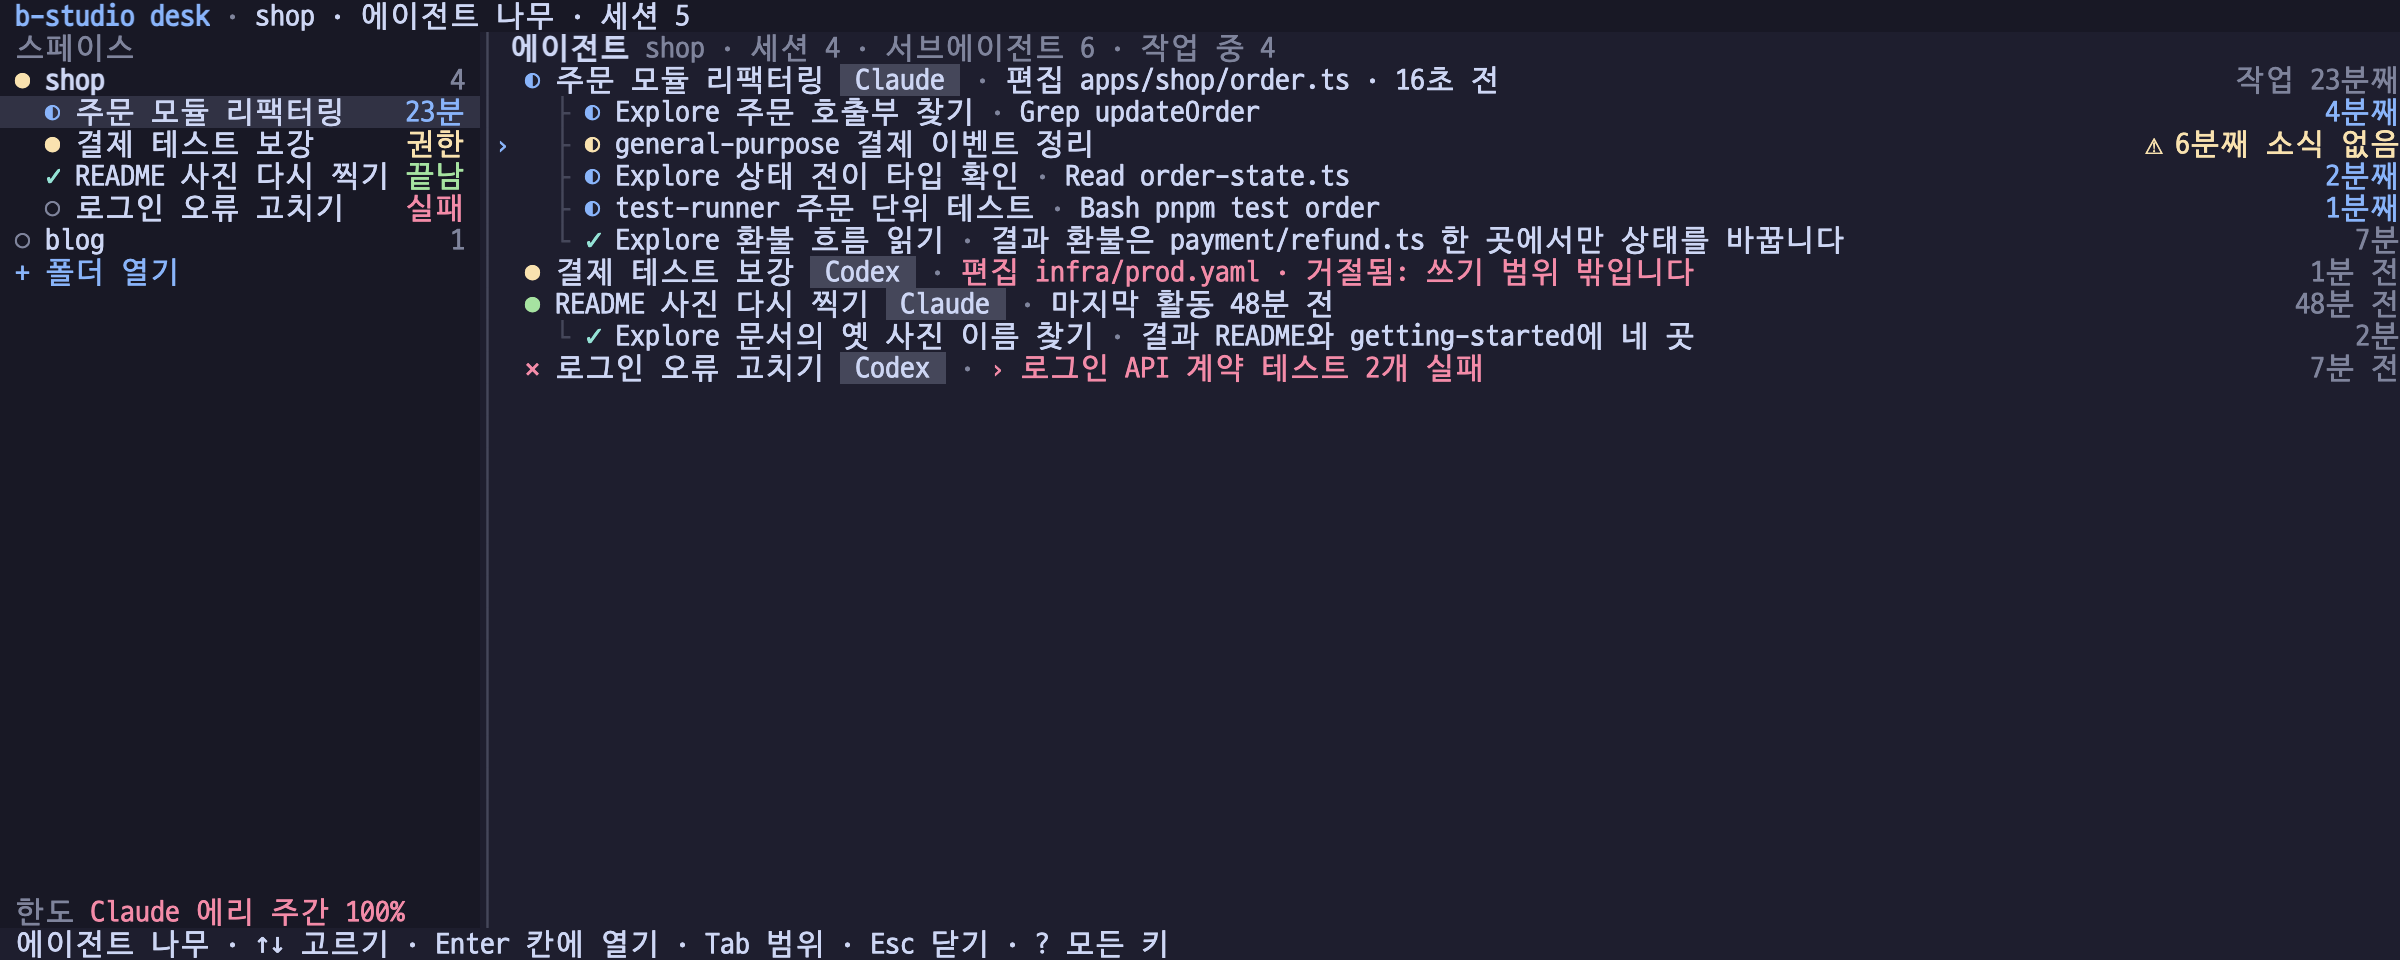
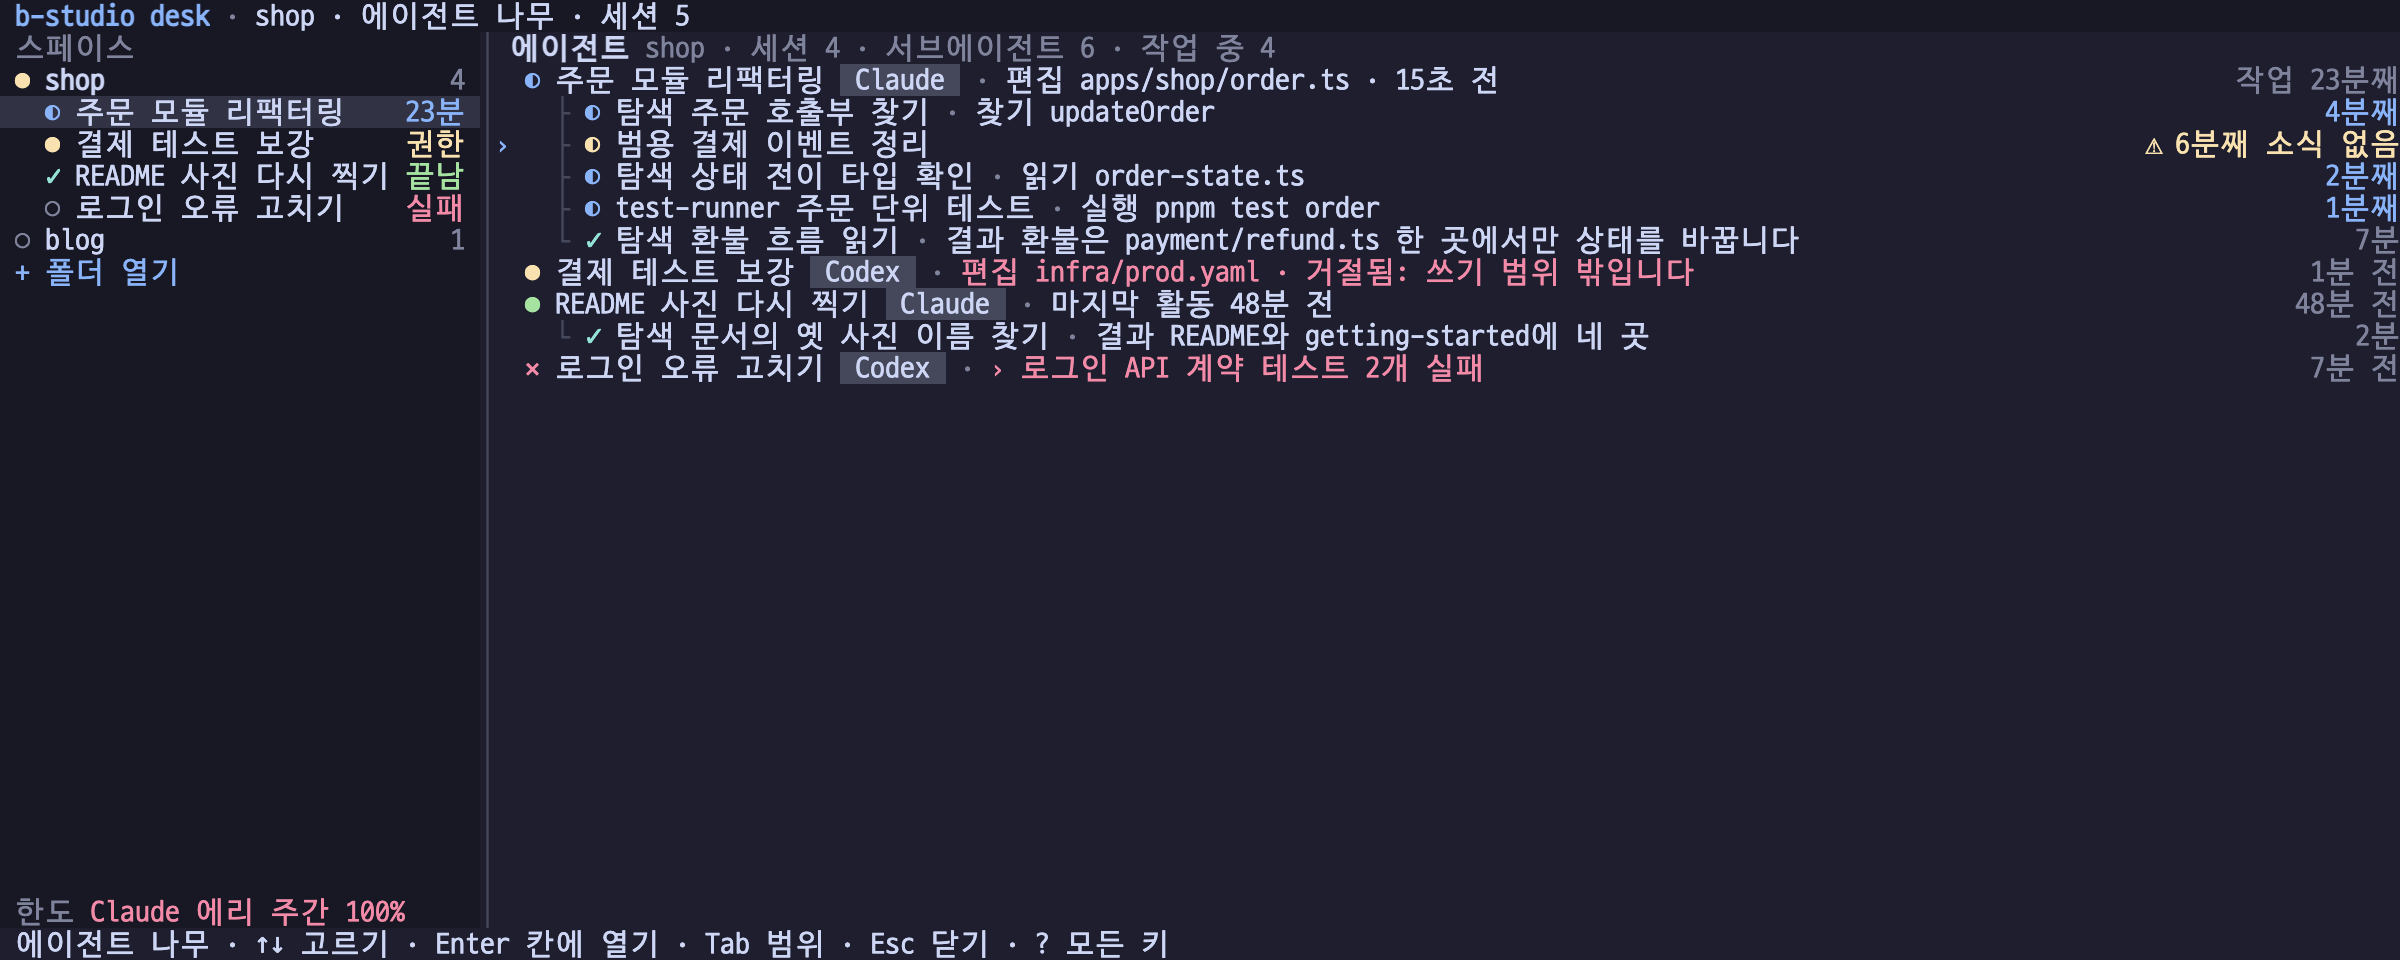
feat(desk): 서브에이전트 종류와 도구 이름을 우리말로 적는다 (#1412) (#1413)
* feat(desk): 서브에이전트 종류와 도구 이름을 우리말로 적는다 (#1412)

* test(studio): 카드 렌더 시험의 서브에이전트 줄 기대값을 우리말 이름으로 맞춘다 (#1412)

Changed region(s): [[0.25, 0.0938, 0.75, 0.2812], [0.25, 0.3125, 0.7188, 0.375]]

diff --git a/apps/cli/src/desk/sidebar.ts b/apps/cli/src/desk/sidebar.ts
@@ -66,7 +66,7 @@ export function detailLines(item: DeskItem): DetailLine[] {
     const tokens = totalTokens(agent.tokens);
     // 서버가 모른다고 한 토큰(tokensUnknown, #953)은 값이 와도 적지 않는다
     const parts = [
-      ...(agent.tool ? [agent.tool] : []),
+      ...(agent.tool ? [toolLineLabel(agent.tool)] : []),
       ...(tokens > 0 && !agent.tokensUnknown ? [`토큰 ${tokens.toLocaleString('ko-KR')}`] : []),
       ...(agent.activity ? [agent.activity] : []),
       // 끝난 서브에이전트가 남긴 마지막 답(#953)
@@ -93,8 +93,60 @@ const PERMISSION_WORDS: Record<string, string> = {
 };
 
 /** 서브에이전트를 부르는 말: 종류와 맡긴 일(#921). 옛 서버는 이름만 준다 */
+/** CLI 도구 이름을 우리말로. 모르는 도구(MCP 등)는 그대로 둔다 */
+const TOOL_LABEL: Record<string, string> = {
+  Edit: '편집',
+  MultiEdit: '편집',
+  NotebookEdit: '편집',
+  apply_patch: '편집',
+  Write: '쓰기',
+  Read: '읽기',
+  Bash: '실행',
+  shell: '실행',
+  exec_command: '실행',
+  Grep: '찾기',
+  Glob: '찾기',
+  WebFetch: '웹',
+  WebSearch: '웹',
+  Agent: '맡김',
+  Task: '맡김',
+  TodoWrite: '할 일',
+  TaskCreate: '할 일',
+  TaskUpdate: '할 일',
+};
+
+export function toolLabel(tool: string): string {
+  // 도구 이름은 CLI가 보낸 글이다. 표에 직접 적은 이름만 바꾼다(`constructor`처럼 객체가 물려받은 이름은 글자 그대로 둔다)
+  return Object.hasOwn(TOOL_LABEL, tool) ? TOOL_LABEL[tool]! : tool;
+}
+
+/** 서브에이전트의 "도구 대상" 한 줄(예: "Grep updateOrder")에서 첫 낱말인 도구 이름만 우리말로 바꾼다 */
+export function toolLineLabel(line: string): string {
+  const space = line.indexOf(' ');
+  const tool = space < 0 ? line : line.slice(0, space);
+  return `${toolLabel(tool)}${space < 0 ? '' : line.slice(space)}`;
+}
+
+/**
+ * CLI에 들어 있는 서브에이전트 종류의 한국어 이름. 사람이 만든 종류는 알 수 없으니 원래 이름 그대로 둔다.
+ * Map으로 둔다: 종류 이름은 CLI가 보낸 글이라 객체의 물려받은 키(`__proto__` 등)와 맞으면 안 된다
+ */
+const SUBAGENT_TYPE_LABEL = new Map<string, string>([
+  ['Explore', '탐색'],
+  ['Plan', '계획'],
+  ['general-purpose', '범용'],
+  ['statusline-setup', '상태 줄 설정'],
+  ['output-style-setup', '출력 방식 설정'],
+]);
+
+/** 서브에이전트 종류의 화면 이름. 아는 종류는 한국어, 그 밖에는 받은 이름 그대로 */
+export function subagentTypeLabel(type: string): string {
+  return SUBAGENT_TYPE_LABEL.get(type) ?? type;
+}
+
 export function subagentName(agent: DeskAgent): string {
-  return [agent.type ?? agent.name, agent.description].filter(Boolean).join(' ');
+  const type = agent.type ?? agent.name;
+  return [type ? subagentTypeLabel(type) : type, agent.description].filter(Boolean).join(' ');
 }
 
 const BACKEND_LABEL: Record<string, string> = {

diff --git a/apps/cli/src/desk/cards.test.ts b/apps/cli/src/desk/cards.test.ts
@@ -1,5 +1,5 @@
 import { describe, expect, it } from 'vitest';
-import { ART_WIDE, cardLines, resetText, spaceScreen, spriteFor } from './cards';
+import { ART_WIDE, cardLines, resetText, spaceScreen, spriteFor, toolLabel, toolLineLabel } from './cards';
 import { initialState, type DeskState } from './keys';
 import { stringWidth, stripAnsi } from './screen';
 import { KittyImages } from './kitty';
@@ -35,7 +35,7 @@ describe('카드 한 장', () => {
     expect(plain[0]!.startsWith('╭')).toBe(true);
     expect(plain[1]).toMatch(/│ .{14} {2}주문 모듈 +Claude +칸1 +◐ 작업 중 │/);
     expect(plain[2]).toContain('Edit src/order.ts');
-    expect(plain[3]).toContain('↳ Explore · 모델 요청 2회');
+    expect(plain[3]).toContain('↳ 탐색 · 모델 요청 2회');
     expect(plain.join('\n')).not.toContain('토큰');
     expect(card({ selected: true }).map(stripAnsi).join('\n')).toContain('검증 통과 · 토큰 1.2만 · $0.42 · 체크포인트 2');
     // 그림 자리에 반칸 블록이 있다
@@ -134,8 +134,8 @@ describe('카드가 보이는 지금 하는 일·할 일·문맥·마지막 답(
       { id: 'a2', name: 'Explore', type: 'Explore', description: '테스트 찾기', kind: 'subagent' as const, state: 'working' as const, tokens: usage(10) },
     ];
     const plain = card(item('s', { agents }));
-    expect(plain[3]).toContain('↳ Explore 결제 흐름 찾기 · Grep order');
-    expect(plain[4]).toContain('↳ Explore 테스트 찾기');
+    expect(plain[3]).toContain('↳ 탐색 결제 흐름 찾기 · 찾기 order');
+    expect(plain[4]).toContain('↳ 탐색 테스트 찾기');
   });
 
   it('고른 카드는 마지막 답을 두 줄까지 펼친다', () => {
@@ -291,5 +291,26 @@ describe('한도 경고 줄과 마지막 답 줄', () => {
     expect(soon.warn).toContain('곧 초기화');
     expect(soon.next).toContain('답 끝났습니다');
     expect(at(new Date(NOW + 110 * 60_000).toISOString()).warn).toContain('1시간 50분 뒤 초기화');
+  });
+});
+
+describe('도구 이름을 우리말로', () => {
+  it('아는 도구는 우리말, 모르는 도구는 그대로', () => {
+    expect(toolLabel('Grep')).toBe('찾기');
+    expect(toolLabel('mcp__b-studio__verify')).toBe('mcp__b-studio__verify');
+  });
+
+  it('객체가 물려받은 이름과 같은 도구 이름도 글자 그대로 둔다', () => {
+    expect(toolLabel('constructor')).toBe('constructor');
+    expect(toolLabel('__proto__')).toBe('__proto__');
+    expect(toolLabel('toString')).toBe('toString');
+  });
+
+  it('서브에이전트의 "도구 대상" 한 줄은 첫 낱말(도구)만 바꾼다', () => {
+    expect(toolLineLabel('Grep updateOrder')).toBe('찾기 updateOrder');
+    expect(toolLineLabel('Bash pnpm test order')).toBe('실행 pnpm test order');
+    expect(toolLineLabel('Read')).toBe('읽기');
+    expect(toolLineLabel('파일 12개 읽음')).toBe('파일 12개 읽음');
+    expect(toolLineLabel('')).toBe('');
   });
 });

diff --git a/apps/cli/src/desk/sidebar.test.ts b/apps/cli/src/desk/sidebar.test.ts
@@ -1,7 +1,7 @@
 import { describe, expect, it } from 'vitest';
 import { stringWidth, stripAnsi } from './screen';
-import { agentStatus, byUrgency, compactTokens, deskSessions, deskSpaces, detailLines, gateStatus, keepOrder, sessionTag, shortElapsed, sidebarRows, urgencyRank } from './sidebar';
-import type { DeskItem } from './types';
+import { agentStatus, byUrgency, compactTokens, deskSessions, deskSpaces, detailLines, gateStatus, keepOrder, sessionTag, shortElapsed, sidebarRows, subagentName, urgencyRank } from './sidebar';
+import type { DeskAgent, DeskItem } from './types';
 
 const base: DeskItem = { kind: 'session', id: 's1', title: '주문 목록', projectName: 'shop', state: 'idle', backend: 'claude-code', lastActivityAt: '2026-10-22T00:00:00Z' };
 
@@ -136,8 +136,8 @@ describe('에이전트 내역과 범위(#843)', () => {
   it('서브에이전트마다 한 줄과 범위 두 줄', () => {
     const texts = detailLines(detailed).map((line) => line.text);
     expect(texts).toEqual([
-      '↳ Explore 작업 중 · 토큰 2,000 · 모델 요청 2회',
-      '↳ Plan 끝남 · 토큰 345 · 끝남 · 도구 3회',
+      '↳ 탐색 작업 중 · 토큰 2,000 · 모델 요청 2회',
+      '↳ 계획 끝남 · 토큰 345 · 끝남 · 도구 3회',
       '쓸 수 있는 곳 세션 작업 복사본 전체',
       '지키는 것 쓰기 전 검사 · 끝나면 검증',
     ]);
@@ -253,5 +253,22 @@ describe('사이드바 세션 줄의 상태 글(#935)', () => {
     expect(rows.find((row) => row.includes('결제 테스트'))).toMatch(/결제 테스트\s+권한 2 $/);
     expect(rows.find((row) => row.includes('주문 리팩터링'))).toMatch(/주문 리팩터링\s+23분 $/);
     for (const row of rows) expect(stringWidth(row)).toBe(36);
+  });
+});
+
+describe('서브에이전트 종류 이름', () => {
+  const agent = (patch: Partial<DeskAgent>): DeskAgent => ({ id: 'a', name: 'x', kind: 'subagent', state: 'working', tokens: { inputTokens: 0, outputTokens: 0, cacheReadTokens: 0, cacheWriteTokens: 0 }, ...patch });
+
+  it('CLI에 들어 있는 종류는 한국어로 적는다', () => {
+    expect(subagentName(agent({ type: 'Explore', description: '주문 호출부 찾기' }))).toBe('탐색 주문 호출부 찾기');
+    expect(subagentName(agent({ type: 'general-purpose' }))).toBe('범용');
+    expect(subagentName(agent({ type: 'Plan' }))).toBe('계획');
+  });
+
+  it('사람이 만든 종류와 모르는 종류는 원래 이름 그대로 둔다(대소문자가 다른 이름도 바꾸지 않는다)', () => {
+    expect(subagentName(agent({ type: 'test-runner' }))).toBe('test-runner');
+    expect(subagentName(agent({ type: 'explore' }))).toBe('explore');
+    expect(subagentName(agent({ type: undefined, name: 'Explore' }))).toBe('탐색');
+    expect(subagentName(agent({ type: '__proto__' }))).toBe('__proto__');
   });
 });

diff --git a/apps/cli/src/desk/cards.ts b/apps/cli/src/desk/cards.ts
@@ -8,7 +8,7 @@
  */
 import type { DeskState } from './keys';
 import { fit, fitAnsi, stringWidth, type Rect } from './screen';
-import { agentStatus, attentionKind, backendLabel, compactTokens, deniedWrites, deskSessions, deskSpaces, detailLines, gateStatus, headStatus, subagentName, totalTokens, type StatusBadge } from './sidebar';
+import { agentStatus, attentionKind, backendLabel, compactTokens, deniedWrites, deskSessions, deskSpaces, detailLines, gateStatus, headStatus, subagentName, toolLabel, toolLineLabel, totalTokens, type StatusBadge } from './sidebar';
 import type { KittyImages } from './kitty';
 import { defaultSprite, frameAt, spriteLines, type Sprite } from './sprite';
 import { BOLD, DEFAULT_THEME, fg, RESET, type ColorToken, type Theme } from './theme';
@@ -103,31 +103,7 @@ export function goneMs(iso: string | undefined, now: number): number | undefined
 /** 작업 중인데 이만큼 소식이 없으면 멈춘 듯으로 본다(도구가 도는 동안은 제외) */
 export const STALE_MS = 3 * 60_000;
 
-/** CLI 도구 이름을 우리말로. 모르는 도구(MCP 등)는 그대로 둔다 */
-const TOOL_LABEL: Record<string, string> = {
-  Edit: '편집',
-  MultiEdit: '편집',
-  NotebookEdit: '편집',
-  apply_patch: '편집',
-  Write: '쓰기',
-  Read: '읽기',
-  Bash: '실행',
-  shell: '실행',
-  exec_command: '실행',
-  Grep: '찾기',
-  Glob: '찾기',
-  WebFetch: '웹',
-  WebSearch: '웹',
-  Agent: '맡김',
-  Task: '맡김',
-  TodoWrite: '할 일',
-  TaskCreate: '할 일',
-  TaskUpdate: '할 일',
-};
-
-export function toolLabel(tool: string): string {
-  return TOOL_LABEL[tool] ?? tool;
-}
+export { toolLabel, toolLineLabel };
 
 /**
  * 넘치는 글을 낱말 사이에서 자르고 …를 붙인다. 보이는 폭(넓은 글자는 두 칸)이 width를 넘지 않는다.
@@ -365,7 +341,7 @@ function subagentLines(item: DeskItem, width: number, theme: Theme, now: number,
         : agent.startedAt
           ? { text: forText(agent.startedAt, now), color: 'muted' }
           : undefined;
-    const doing = agent.tool ?? agent.activity;
+    const doing = agent.tool ? toolLineLabel(agent.tool) : agent.activity;
     return compose(
       [{ text: '↳ ', color: 'accent' }, { text: subagentName(agent), flex: true }, ...(doing ? [SEP, { text: oneLine(doing), flex: true }] : []), ...(when ? [SEP, when] : [])],
       width,

diff --git a/apps/cli/src/desk/agent-tree.ts b/apps/cli/src/desk/agent-tree.ts
@@ -6,7 +6,7 @@
  * 범위는 고른 세션이 든 스페이스이고 Tab으로 전체 스페이스로 바꾼다. 키를 받아 다음 상태와 고른 세션을 돌려주는 순수 함수다(고른 세션을 칸에 여는 일은 keys.ts가 한다).
  * 이 화면은 보기만 한다: 서브에이전트를 멈추거나 조종하지 않는다
  */
-import { agentQuiet, agoText, clipWords, forText, nowLine, oneLine, spaceItems, spanText, subagentsOf } from './cards';
+import { agentQuiet, agoText, clipWords, forText, nowLine, oneLine, spaceItems, spanText, subagentsOf, toolLineLabel } from './cards';
 import type { DeskState } from './keys';
 import { fitAnsi, stringWidth, stripAnsi, type Rect } from './screen';
 import { backendLabel, deskSessions, headStatus, subagentName } from './sidebar';
@@ -144,7 +144,7 @@ function childLine(row: TreeRow, selected: boolean, width: number, theme: Theme,
   const rightWidth = right && stringWidth(right.text) > 0 ? stringWidth(right.text) + 1 : 0;
   const prefixWidth = 2 + 4 + 2;
   const room = Math.max(1, width - prefixWidth - rightWidth);
-  const doing = agent.state === 'working' ? (agent.tool ?? agent.activity) : undefined;
+  const doing = agent.state === 'working' ? (agent.tool ? toolLineLabel(agent.tool) : agent.activity) : undefined;
   const result = agent.state === 'done' && agent.result ? oneLine(agent.result) : undefined;
   const name = subagentName(agent) || '서브에이전트';
   // 종류와 맡긴 일은 도구·결과보다 먼저 자리를 잡는다

diff --git a/apps/studio/lib/server/agents-overview-card.test.ts b/apps/studio/lib/server/agents-overview-card.test.ts
@@ -64,7 +64,7 @@ describe('서버 응답 모양 그대로 카드를 그린다', () => {
     });
     const plain = cardLines({ item, selected: true, flagged: false, withLimits: false, sprite: defaultSprite('claude-code') }, 100, DEFAULT_THEME, NOW).map(stripAnsi).join('\n');
     expect(plain).toContain('Bash 실행 권한을 묻습니다');
-    expect(plain).toContain('↳ Explore 훅 찾기 · Grep');
+    expect(plain).toContain('↳ 탐색 훅 찾기 · 찾기');
   });
 
   it('요청을 시작한 때와 도는 도구, 서브에이전트 시작 때가 카드의 "작업 N분째"·"N분째"로 나온다(#933·#934)', () => {
@@ -84,6 +84,6 @@ describe('서버 응답 모양 그대로 카드를 그린다', () => {
     // 도구가 6분째 돌고 있으니 소식이 없어도 멈춘 듯이 아니다
     expect(plain).toContain('실행 pnpm test · 6분째');
     expect(plain).not.toContain('소식 없음');
-    expect(plain).toContain('↳ Explore 훅 찾기 · Grep · 4분째');
+    expect(plain).toContain('↳ 탐색 훅 찾기 · 찾기 · 4분째');
   });
 });

diff --git a/apps/cli/src/desk/agent-tree.test.ts b/apps/cli/src/desk/agent-tree.test.ts
@@ -50,8 +50,8 @@ describe('에이전트 나무 목록: 그림', () => {
     expect(parent).toContain('Claude');
     expect(parent).toContain('실행 pnpm test');
     expect(parent).toMatch(/작업 23분째$/);
-    expect(text.find((line) => line.includes('결제 흐름 찾기'))).toMatch(/├ ◐ Explore 결제 흐름 찾기 · Grep order .*4분째/);
-    expect(text.find((line) => line.includes('문서 찾기'))).toMatch(/└ ✓ Explore 문서 찾기 · 결과 README에 세 곳이 있습니다/);
+    expect(text.find((line) => line.includes('결제 흐름 찾기'))).toMatch(/├ ◐ 탐색 결제 흐름 찾기 · 찾기 order .*4분째/);
+    expect(text.find((line) => line.includes('문서 찾기'))).toMatch(/└ ✓ 탐색 문서 찾기 · 결과 README에 세 곳이 있습니다/);
   });
 
   it('3분 넘게 소식이 없는 서브에이전트는 카드와 같은 규칙으로 "N분째 소식 없음"을 적는다', () => {

diff --git a/apps/cli/src/desk/render.test.ts b/apps/cli/src/desk/render.test.ts
@@ -271,8 +271,8 @@ describe('에이전트 나무 목록 화면', () => {
     expect(lines).toHaveLength(small.rows);
     for (const line of lines) expect(stringWidth(stripAnsi(line))).toBe(small.cols);
     expect(plain[0]).toContain('에이전트 나무');
-    expect(plain.join('\n')).toContain('├ ◐ Explore 결제 흐름 찾기');
-    expect(plain.join('\n')).toContain('└ ◐ Explore 테스트 찾기');
+    expect(plain.join('\n')).toContain('├ ◐ 탐색 결제 흐름 찾기');
+    expect(plain.join('\n')).toContain('└ ◐ 탐색 테스트 찾기');
     expect(plain.at(-1)).toContain('에이전트 나무');
     expect(cursor).toBeUndefined();
   });

diff --git a/apps/cli/src/desk/cards-glance.test.ts b/apps/cli/src/desk/cards-glance.test.ts
@@ -82,8 +82,8 @@ describe('서브에이전트 줄', () => {
 
   it('작업 중인 것을 셋까지 한 줄씩 "4분째"로, 나머지는 "외 N개"', () => {
     const plain = draw(item('m', { state: 'working', agents })).join('\n');
-    expect(plain).toContain('↳ Explore 주문 호출부 찾기 · Grep · 4분째');
-    expect(plain).toContain('↳ Explore 문서 찾기 · 1분째');
+    expect(plain).toContain('↳ 탐색 주문 호출부 찾기 · 찾기 · 4분째');
+    expect(plain).toContain('↳ 탐색 문서 찾기 · 1분째');
     expect(plain).not.toContain('타입 찾기');
     expect(plain).toContain('↳ 외 2개 작업 중');
   });

diff --git a/apps/cli/src/desk/cards-dogfood.test.ts b/apps/cli/src/desk/cards-dogfood.test.ts
@@ -63,7 +63,7 @@ describe('서브에이전트와 토큰', () => {
   it('고른 카드에서 끝난 서브에이전트를 두 번 그리지 않는다', () => {
     const plain = draw(done, { selected: true }, 84).join('\n');
     expect(plain).not.toContain('서브에이전트 1개 끝남');
-    expect(plain.match(/↳ Explore/g)).toHaveLength(1);
+    expect(plain.match(/↳ 탐색/g)).toHaveLength(1);
   });
 
   it('토큰을 모르면(0) "토큰 0"을 쓰지 않는다', () => {

diff --git a/CHANGELOG.md b/CHANGELOG.md
@@ -149,6 +149,7 @@
 
 ### 수정
 
+- desk의 서브에이전트 줄(카드·에이전트 나무·펼친 줄)이 CLI에 들어 있는 종류 이름과 도구 이름을 우리말로 적습니다(Explore → 탐색, general-purpose → 범용, Grep → 찾기). 사람이 만든 종류는 받은 이름 그대로입니다. 도구 이름이 `constructor`처럼 객체가 물려받은 이름일 때 글자 대신 함수가 나오던 것도 고쳤습니다.
 - 작업 카드가 있는 codex 세션 터미널에서 `apply_patch`의 본문(`command`)이 글이 아니면 바꾸는 파일을 알 수 없다고 보고 쓰기를 막습니다(#1393). 전에는 빈 목록으로 보아 카드의 쓰기 범위 검사를 지나갔습니다.
 - desk의 입력 줄(새 요청·새 계획·새 비교·폴더 경로·설정·확인 메모·세션 이름)이 긴 글에서 앞을 한 글자씩 자르며 폭을 다시 재 글 길이의 제곱으로 느려지던 것을 고쳤습니다(#1387). 끝에서 한 번만 훑어 보이는 폭을 채우므로 200KB를 붙여 넣어도 1ms 안에 그립니다. 옛 방식과 같은 결과임을 폭 경계·한글·이모지·결합 문자 표로 확인했습니다.
 - 이 컴퓨터의 OpenAI 호환·Google 서버(Ollama 등)를 쓰는 키 없는 모델이 API 모드 세션 터미널을 열지 못하던 것을 고쳤습니다(트러블슈팅 279). 서버·자체 CLI·모델 클라이언트가 같은 규칙(`keylessLocal`)으로 판정하고, `http://[::1]`도 이 컴퓨터 주소로 읽습니다.
